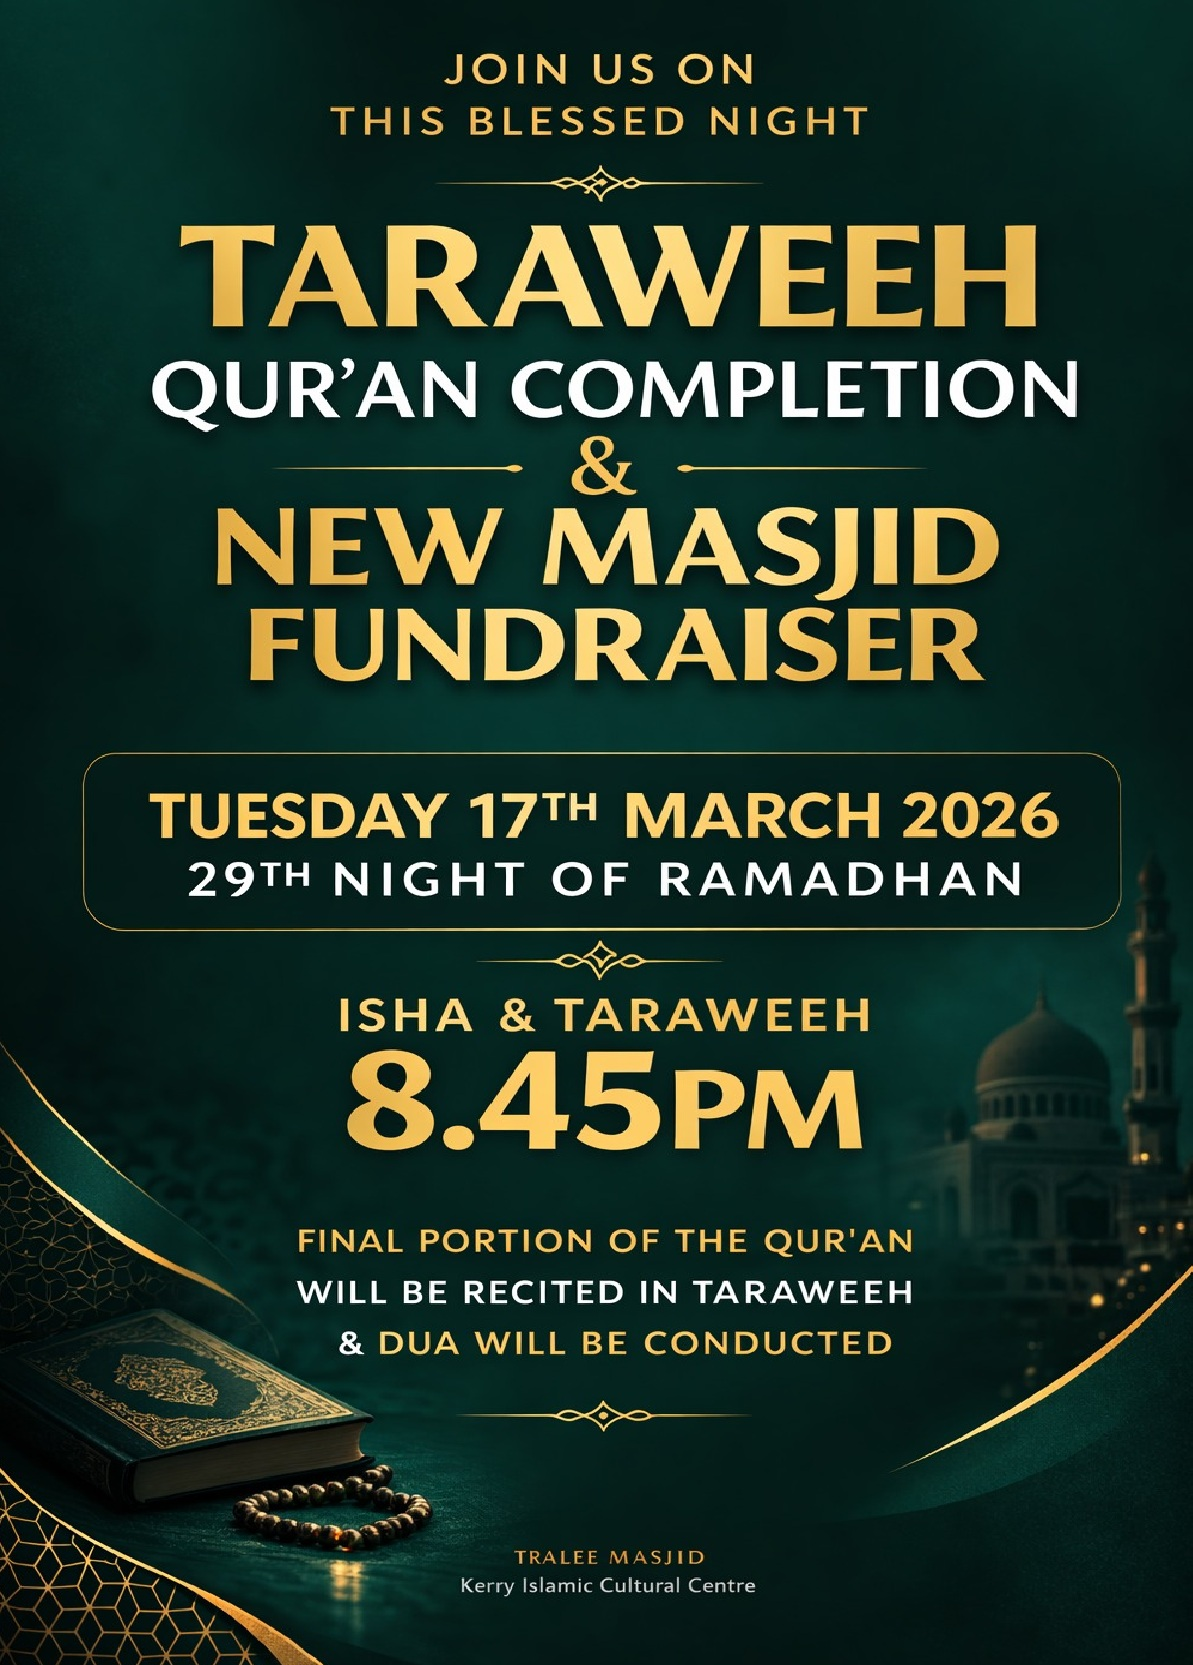
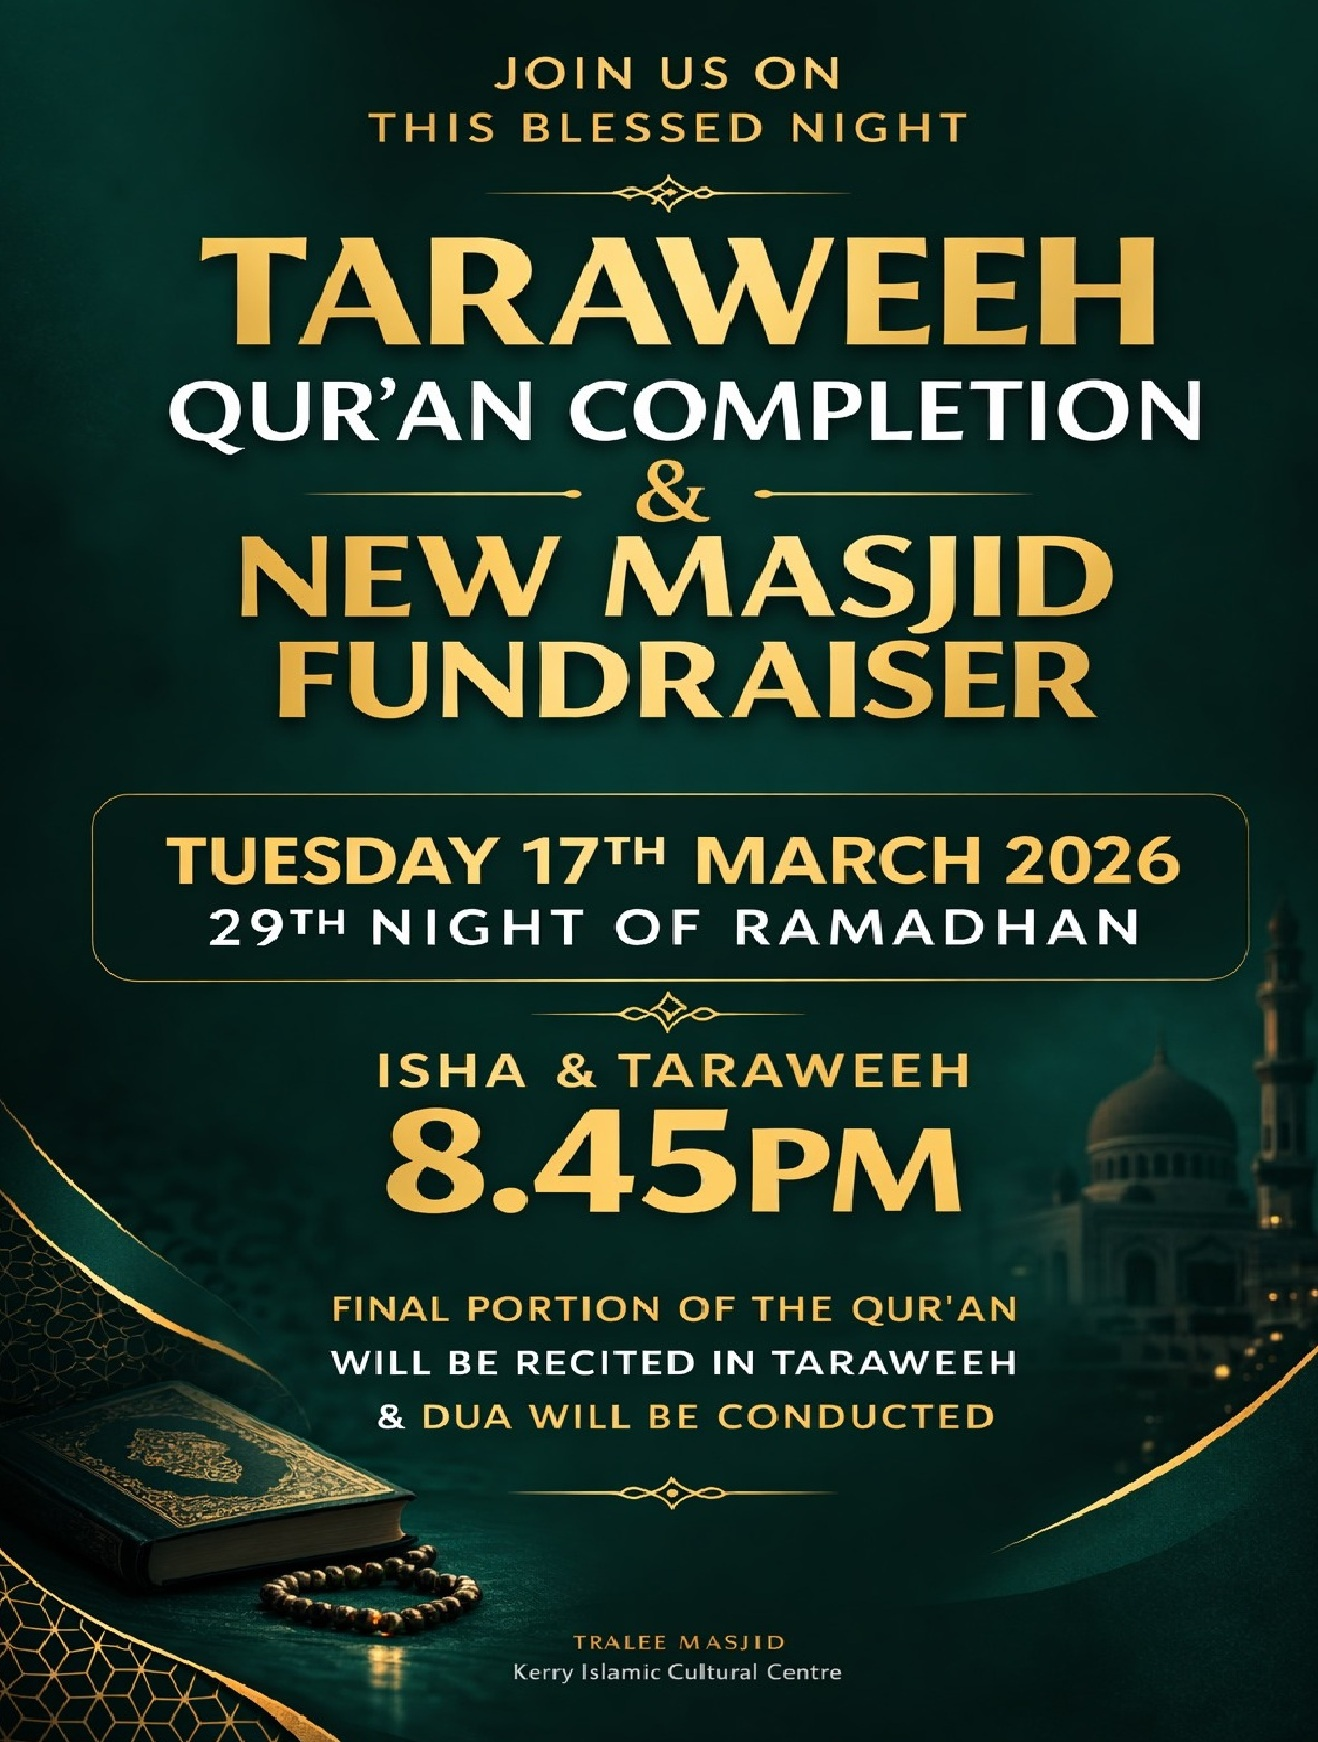
quran completion poster updated and refresh times increased

diff --git a/static/js/time.js b/static/js/time.js
@@ -108,13 +108,16 @@ var timeModule = {
 
     // Check for fixed scheduled refreshes
     var shouldRefresh = (irishHours === 0 && irishMins === 0 && irishSecs <= 2) ||
-                       (irishHours === 3 && irishMins === 30 && irishSecs <= 2) ||
-                       (irishHours === 12 && irishMins === 30 && irishSecs <= 2) ||
-                       (irishHours === 14 && irishMins === 12 && irishSecs <= 2) ||
-                       (irishHours === 16 && irishMins === 30 && irishSecs <= 2) ||
-                       (irishHours === 17 && irishMins === 30 && irishSecs <= 2) ||
-                       (irishHours === 19 && irishMins === 45 && irishSecs <= 2) ||
-                       (irishHours === 21 && irishMins === 15 && irishSecs <= 2);
+                         (irishHours === 3 && irishMins === 30 && irishSecs <= 2) ||
+                         (irishHours === 6 && irishMins === 30 && irishSecs <= 2) ||
+                         (irishHours === 10 && irishMins === 30 && irishSecs <= 2) ||
+                         (irishHours === 12 && irishMins === 30 && irishSecs <= 2) ||
+                         (irishHours === 14 && irishMins === 12 && irishSecs <= 2) ||
+                         (irishHours === 16 && irishMins === 30 && irishSecs <= 2) ||
+                         (irishHours === 17 && irishMins === 30 && irishSecs <= 2) ||
+                         (irishHours === 18 && irishMins === 30 && irishSecs <= 2) ||
+                         (irishHours === 19 && irishMins === 45 && irishSecs <= 2) ||
+                         (irishHours === 21 && irishMins === 15 && irishSecs <= 2);
 
     // Check for dynamic refreshes 30 minutes before each Jamaah time
     if (!shouldRefresh && irishSecs <= 2) {

diff --git a/static/js/main.js b/static/js/main.js
@@ -53,10 +53,13 @@ var app = {  // Initialize the application
       // Check for fixed scheduled refreshes
       var shouldRefresh = (irishHours === 0 && irishMins === 0 && irishSecs <= 2) ||
                          (irishHours === 3 && irishMins === 30 && irishSecs <= 2) ||
+                         (irishHours === 6 && irishMins === 30 && irishSecs <= 2) ||
+                         (irishHours === 10 && irishMins === 30 && irishSecs <= 2) ||
                          (irishHours === 12 && irishMins === 30 && irishSecs <= 2) ||
                          (irishHours === 14 && irishMins === 12 && irishSecs <= 2) ||
                          (irishHours === 16 && irishMins === 30 && irishSecs <= 2) ||
                          (irishHours === 17 && irishMins === 30 && irishSecs <= 2) ||
+                         (irishHours === 18 && irishMins === 30 && irishSecs <= 2) ||
                          (irishHours === 19 && irishMins === 45 && irishSecs <= 2) ||
                          (irishHours === 21 && irishMins === 15 && irishSecs <= 2);
 